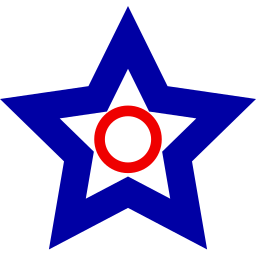
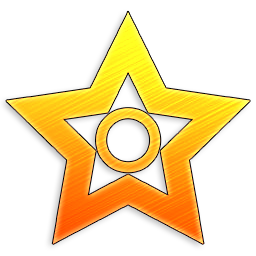
Added the ability to run arbitrary VS Code commands or extensions

diff --git a/src/extension.ts b/src/extension.ts
@@ -44,6 +44,8 @@ function getCommand(command: string) {
             return `${PLUGIN_NAME}.run`;
         case 'openUrl':
             return `${PLUGIN_NAME}.openUrl`;
+        case 'runCommand':
+            return `${PLUGIN_NAME}.runCommand`;
         default:
             return null;
     }
@@ -63,6 +65,11 @@ function getIcon(command: string) {
                 dark: path.join(__filename, '..', '..', 'resources', 'dark', 'link.svg'),
             };
         case 'run':
+            return {
+                light: path.join(__filename, '..', '..', 'resources', 'light', 'run.svg'),
+                dark: path.join(__filename, '..', '..', 'resources', 'dark', 'run.svg'),
+            };
+        case 'runCommand':
             return {
                 light: path.join(__filename, '..', '..', 'resources', 'light', 'run.svg'),
                 dark: path.join(__filename, '..', '..', 'resources', 'dark', 'run.svg'),
@@ -123,6 +130,11 @@ function openUrl(args: any) {
     vscode.commands.executeCommand('vscode.open', vscode.Uri.parse(args[0]));
 }
 
+// Запуск произвольной команды
+function runCommand(args: any) {
+    vscode.commands.executeCommand(args[0]);
+}
+
 // Активация команд
 export function activate(context: vscode.ExtensionContext) {
     const favoritesPanelProvider = new FavoritesPanelProvider(getData());
@@ -138,6 +150,9 @@ export function activate(context: vscode.ExtensionContext) {
         }),
         vscode.commands.registerCommand(`${PLUGIN_NAME}.openUrl`, (args) => {
             openUrl(args);
+        }),
+        vscode.commands.registerCommand(`${PLUGIN_NAME}.runCommand`, (args) => {
+            runCommand(args);
         })
     );
 }

diff --git a/src/consts.ts b/src/consts.ts
@@ -25,6 +25,18 @@ export const DEFAULT_COMMANDS = [
         command: 'openUrl',
         arguments: ['https://github.com'],
     },
+    {
+        label: 'Zoom In',
+        description: '',
+        command: 'runCommand',
+        arguments: ['editor.action.fontZoomIn'],
+    },
+    {
+        label: 'Zoom Out',
+        description: '',
+        command: 'runCommand',
+        arguments: ['editor.action.fontZoomOut'],
+    },
 ];
 
 export const ERRORS = {

diff --git a/README.md b/README.md
@@ -1,18 +1,22 @@
 # Favorites Panel
 
 Adds a panel for accessing frequently used files, Internet addresses, programs, commands.
+![Favorites Panel](preview/screenshot_0.png)
 
 ## Features
 
 - Quick access to your favorite files
 - Quick access to favorite URLs
 - Fast launch of applications
+- Quick access to your favorite files
+- Quick access to favorite commandss
 
 
 ## Extension Settings
 
 The extension requires initial configuration.
-Edit the settings file VSCODE. 
+Edit the settings file VSCODE.
+If extension settings are not specified, demo settings will be used.
 
 ### Opening file
 
@@ -40,8 +44,45 @@ Settings for opening file in project
       "arguments": ["C:\\Windows\\System32\\drivers\\etc\\hosts", "external"]
     }
 ```
+### Run program
 
-#### Settings for example:
+Settings for run program
+
+```json
+    {
+      "label": "Chrome",
+      "description": "Run Chrome",
+      "command": "run",
+      "arguments": ["start chrome"]
+    }
+```
+### Open URL
+
+Settings for open URL
+
+```json
+    {
+      "label": "github.com",
+      "description": "",
+      "command": "openUrl",
+      "arguments": ["https://github.com"]
+    }
+```
+### Run Command
+
+Settings for running arbitrary commands
+
+```json
+    {
+        "label": "Zoom In",
+        "description": "",
+        "command": "runCommand",
+        "arguments": ["editor.action.fontZoomIn"],
+    }
+```
+### Settings for example:
+
+Copy this snippet of settings into settings.json file (VS Code settings file) to see the extension in action.
 
 ```json
   "favoritesPanel.commands": [
@@ -69,6 +110,18 @@ Settings for opening file in project
       "command": "openUrl",
       "arguments": ["https://github.com"]
     },
+    {
+        "label": "Zoom In",
+        "description": "",
+        "command": "runCommand",
+        "arguments": ["editor.action.fontZoomIn"],
+    },
+    {
+        "label": "Zoom Out",
+        "description": "",
+        "command": "runCommand",
+        "arguments": ["editor.action.fontZoomOut"],
+    },
   ]
 ```
 
@@ -76,12 +129,8 @@ Settings for opening file in project
 
 ## Release Notes
 
-Users appreciate release notes as you update your extension.
+## 0.3.0
 
-### 0.2.0
-
-- Added the ability to open files outside the project (added the "external" argument to the "openFile" command).
-
-### 0.1.0
-
-Initial release
+- Change the icon of the extension in marketplace.
+- Change the icon of the extension on the panel.
+- Added the ability to run arbitrary VS Code commands or extensions

diff --git a/CHANGELOG.md b/CHANGELOG.md
@@ -1,13 +1,15 @@
 # Change Log
 
-All notable changes to the "svassistant" extension will be documented in this file.
+## 0.3.0 | 2020/08/31
 
-Check [Keep a Changelog](http://keepachangelog.com/) for recommendations on how to structure this file.
+- Change the icon of the extension in marketplace.
+- Change the icon of the extension on the panel.
+- Added the ability to run arbitrary VS Code commands or extensions
 
-## 0.2.0
+## 0.2.0 | 2020/08/28
 
 - Added the ability to open files outside the project (added the "external" argument to the "openFile" command).
 
-## 0.1.0
+## 0.1.0 | 2020/08/28
 
 - Initial release
